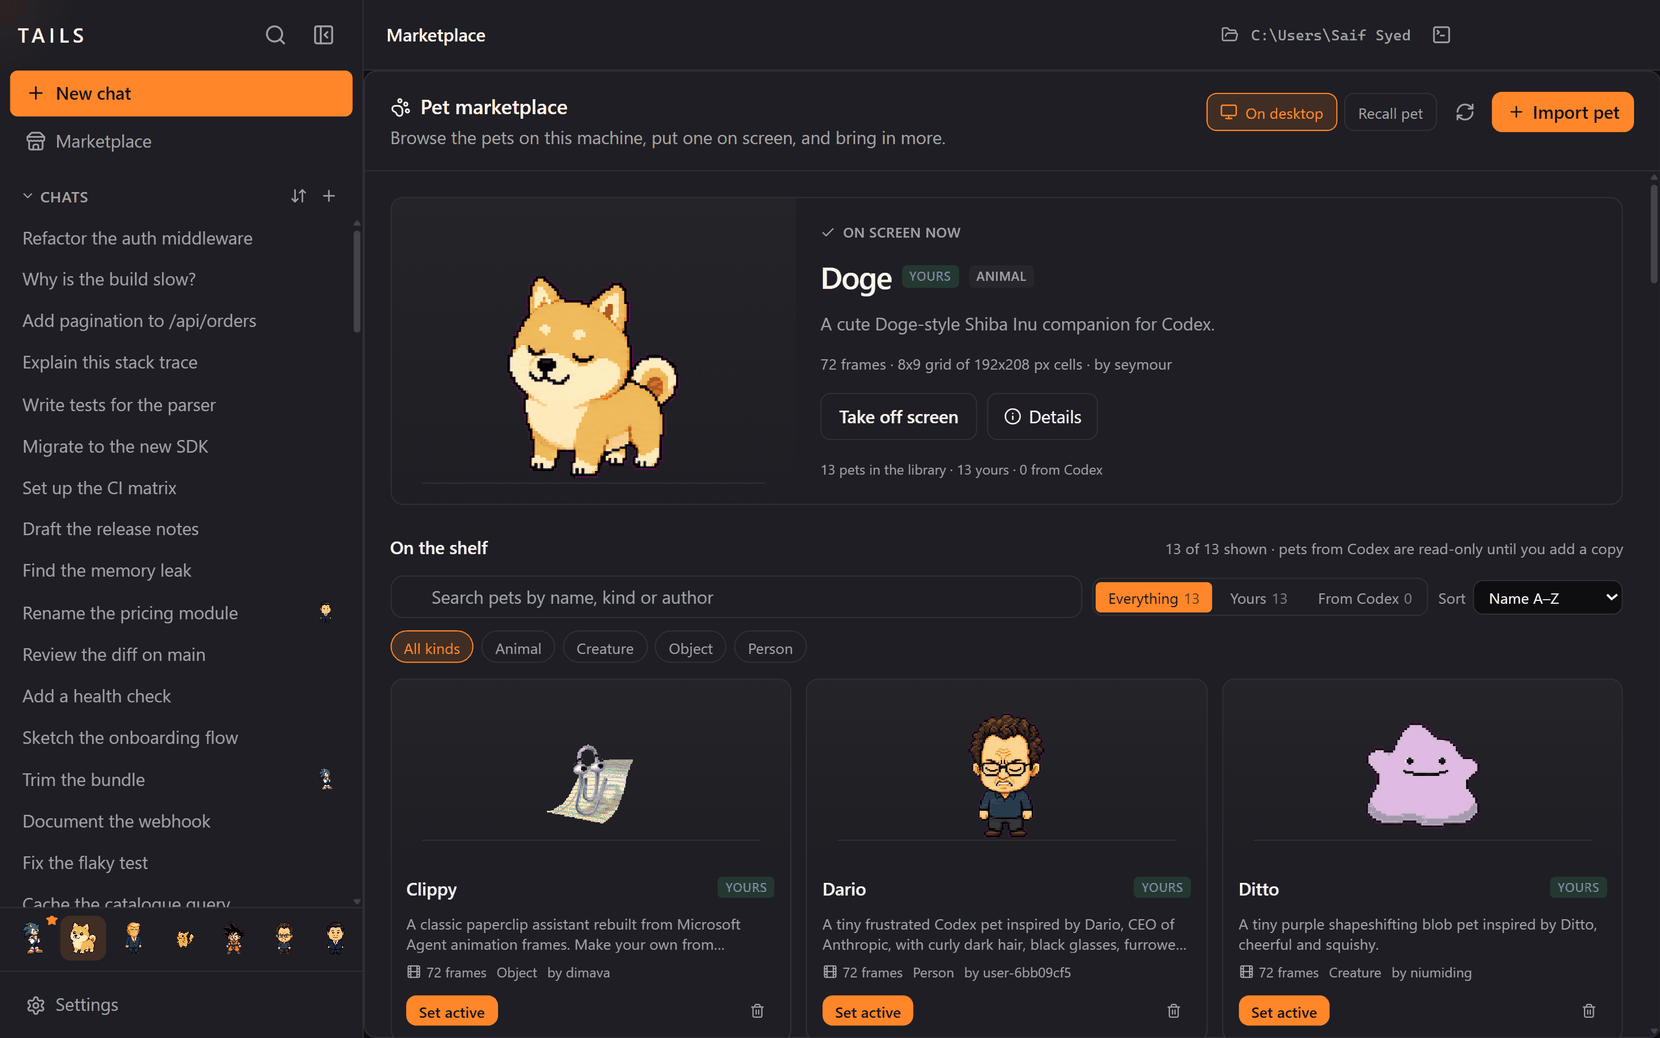
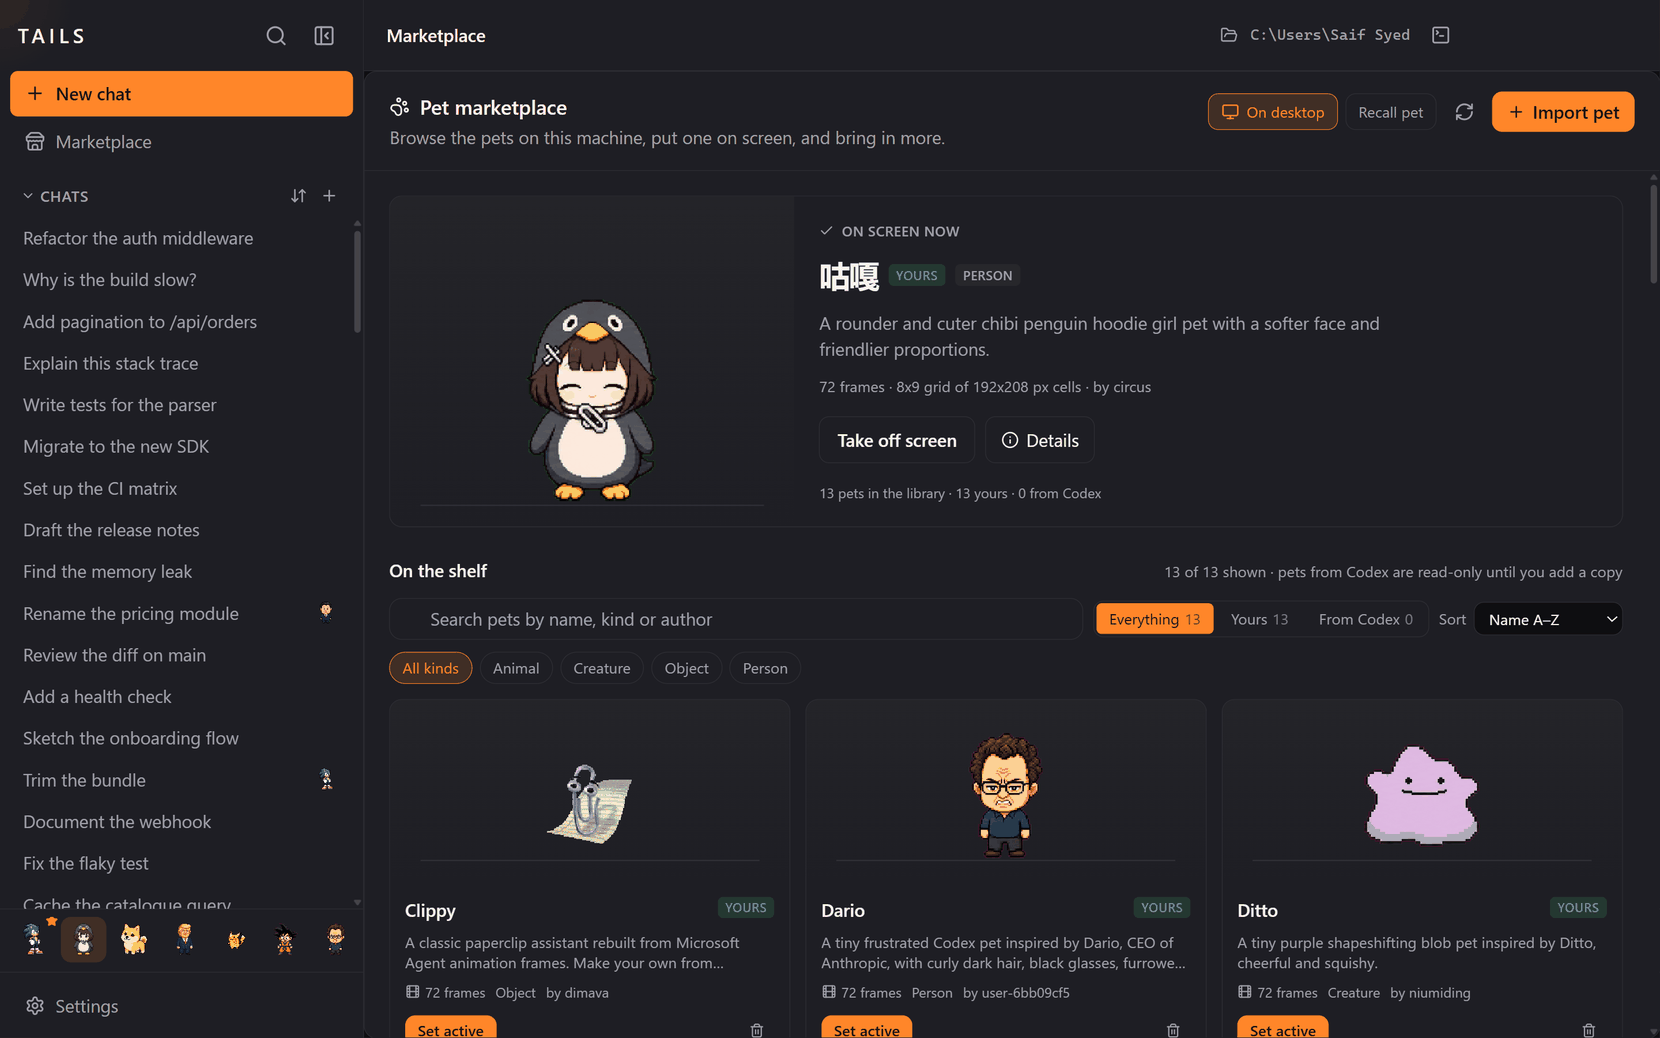
docs: a pet lineup, and a better face on the marketplace card
The marketplace hero renders whichever pet is actually on screen, so it can
only ever show one. Variety there is not a design choice, it is impossible
without faking the UI, which is why the range now has its own image: seven
sprites cut from the same sheets the renderer loads, trimmed to their own ink
and stood on a shared baseline.

The card itself was showing Doge, which was picked to avoid something rather
than for being good. It is the penguin girl now, which is the best-drawn
sprite on the shelf and makes the point that these are real animation sheets
rather than clip art.

diff --git a/README.md b/README.md
@@ -143,13 +143,20 @@ Give a conversation a character. A pet is a sprite that lives in the chat, walks
 be picked up and thrown, put out onto your desktop above your other windows, and, if you want,
 made to **speak as the assistant** rather than beside it.
 
+<div align="center">
+<img src="docs/media/pet-lineup.png" alt="Seven animated pets side by side: a blue hedgehog, a spiky-haired fighter, a suited man, a girl in a penguin hoodie, a Shiba Inu, a paperclip, and a purple blob" width="100%">
+<br>
+<sub>Seven of the thirteen on this machine. Each is a full sprite sheet with idle, walk, jump and
+wave, and the shelf takes whatever you bring it.</sub>
+</div>
+
 ▸ &nbsp;**Assigned per conversation.** Drag one onto a chat and that chat has a face in the
 sidebar, so a list of twelve sessions stops being a list of twelve titles
 ▸ &nbsp;**It tells you when a chat is done**, by name, while the app is buried. Clicking the
 bubble opens that conversation
 ▸ &nbsp;Three modes: a quiet sprite, an occasional commentator, or the voice of the reply itself
 ▸ &nbsp;Each carries its own persona, thinking phrases, theme and voice, local or ElevenLabs
-▸ &nbsp;**Bring your own.** Import a sprite sheet and it joins the shelf
+▸ &nbsp;**Bring your own.** Import a sprite sheet and it joins the shelf, animations and all
 ▸ &nbsp;Out on the desktop its button is a **microphone**, because a pet you can see while the
 app is buried is a pet you want to talk to
 
